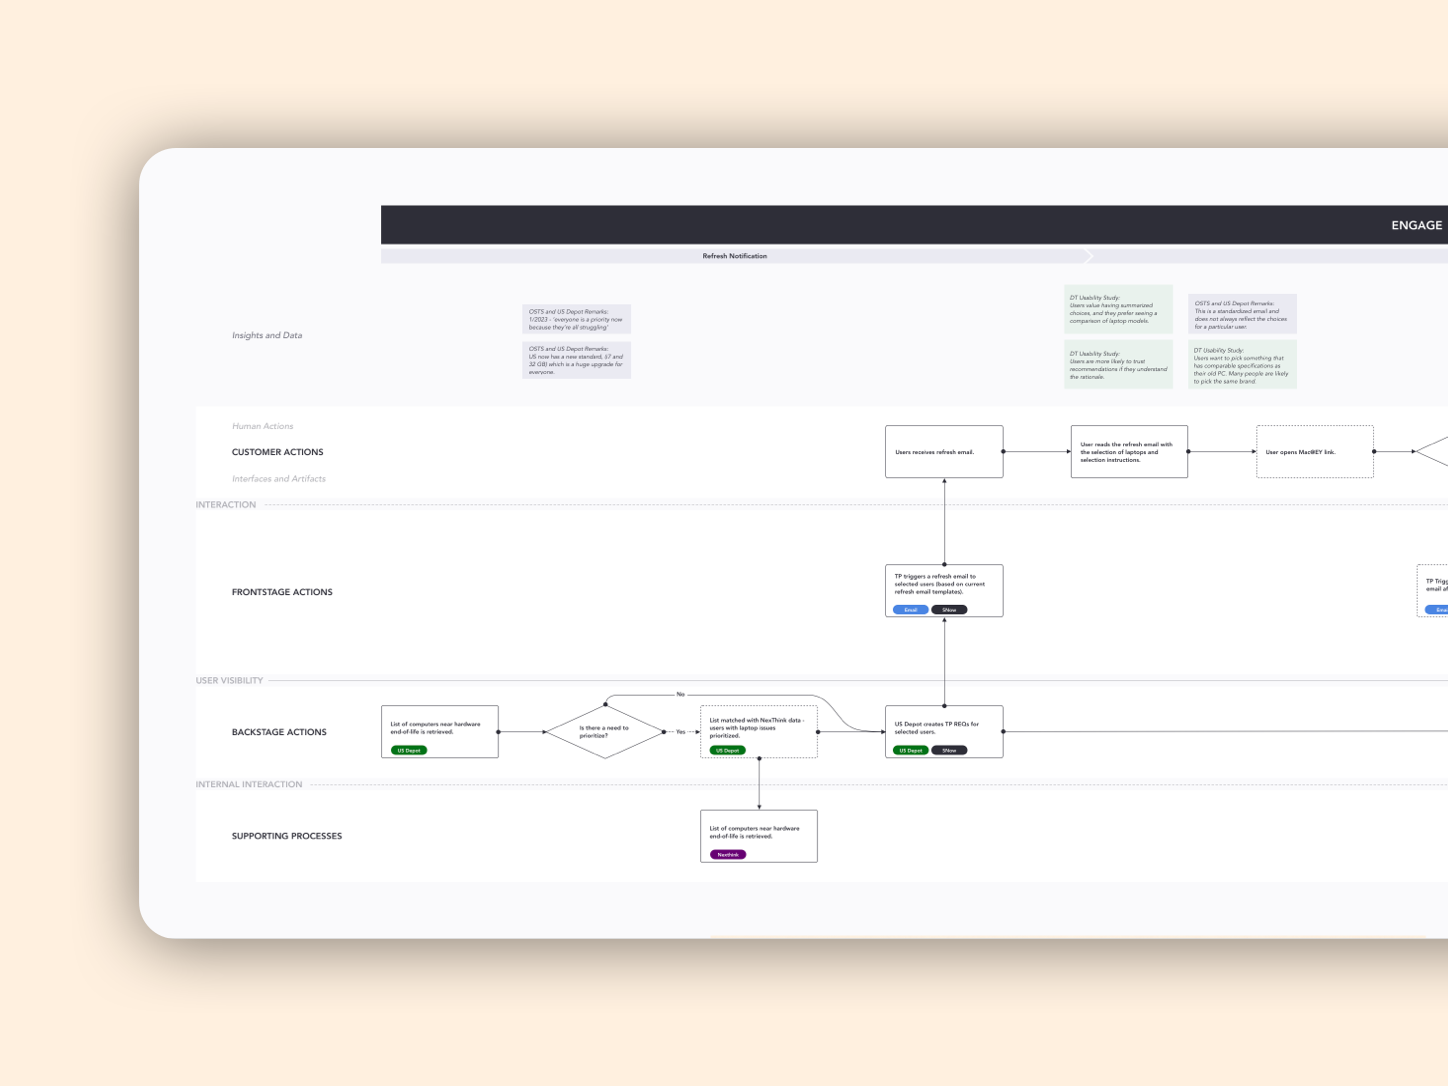
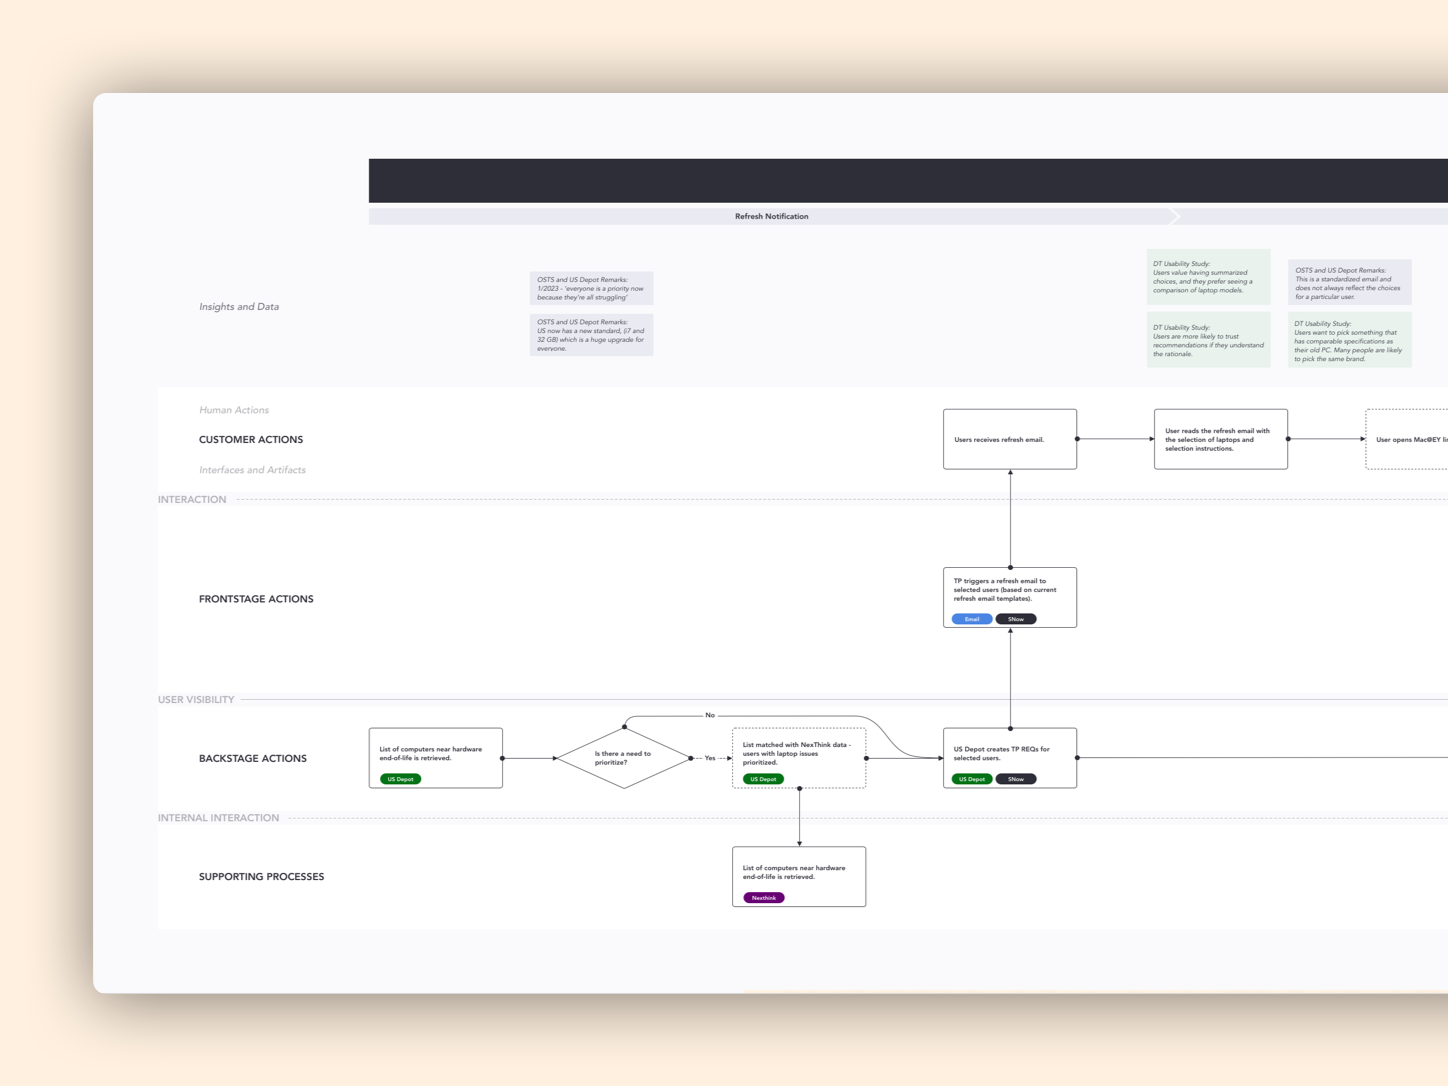
preview updates

diff --git a/index.html b/index.html
@@ -135,8 +135,8 @@ footer { border-top: 1px solid var(--border); }
           <div class="proj-arrow">→</div>
         </div>
       </div>
-      <div class="proj-vis" style="background:#B8D4C4; overflow:hidden; display:flex; align-items:flex-end; justify-content:center; padding:1.25rem 1.25rem 0;">
-        <img src="img/onetrust/mcp-preview.png" alt="MCP Credential Experience" style="width:100%; display:block; border-radius:8px 8px 0 0; box-shadow:0 -2px 24px rgba(0,0,0,0.18); object-fit:cover; object-position:top; max-height:240px;"/>
+      <div class="proj-vis" style="background:#fff; overflow:hidden; position:relative;">
+        <img src="img/onetrust/mcp-preview.png" alt="MCP Credential Experience" style="position:absolute; top:0; left:0; width:100%; height:100%; object-fit:cover; object-position:top center; display:block;"/>
       </div>
     </a>
     <a class="proj" href="portfolio/project5.html">
